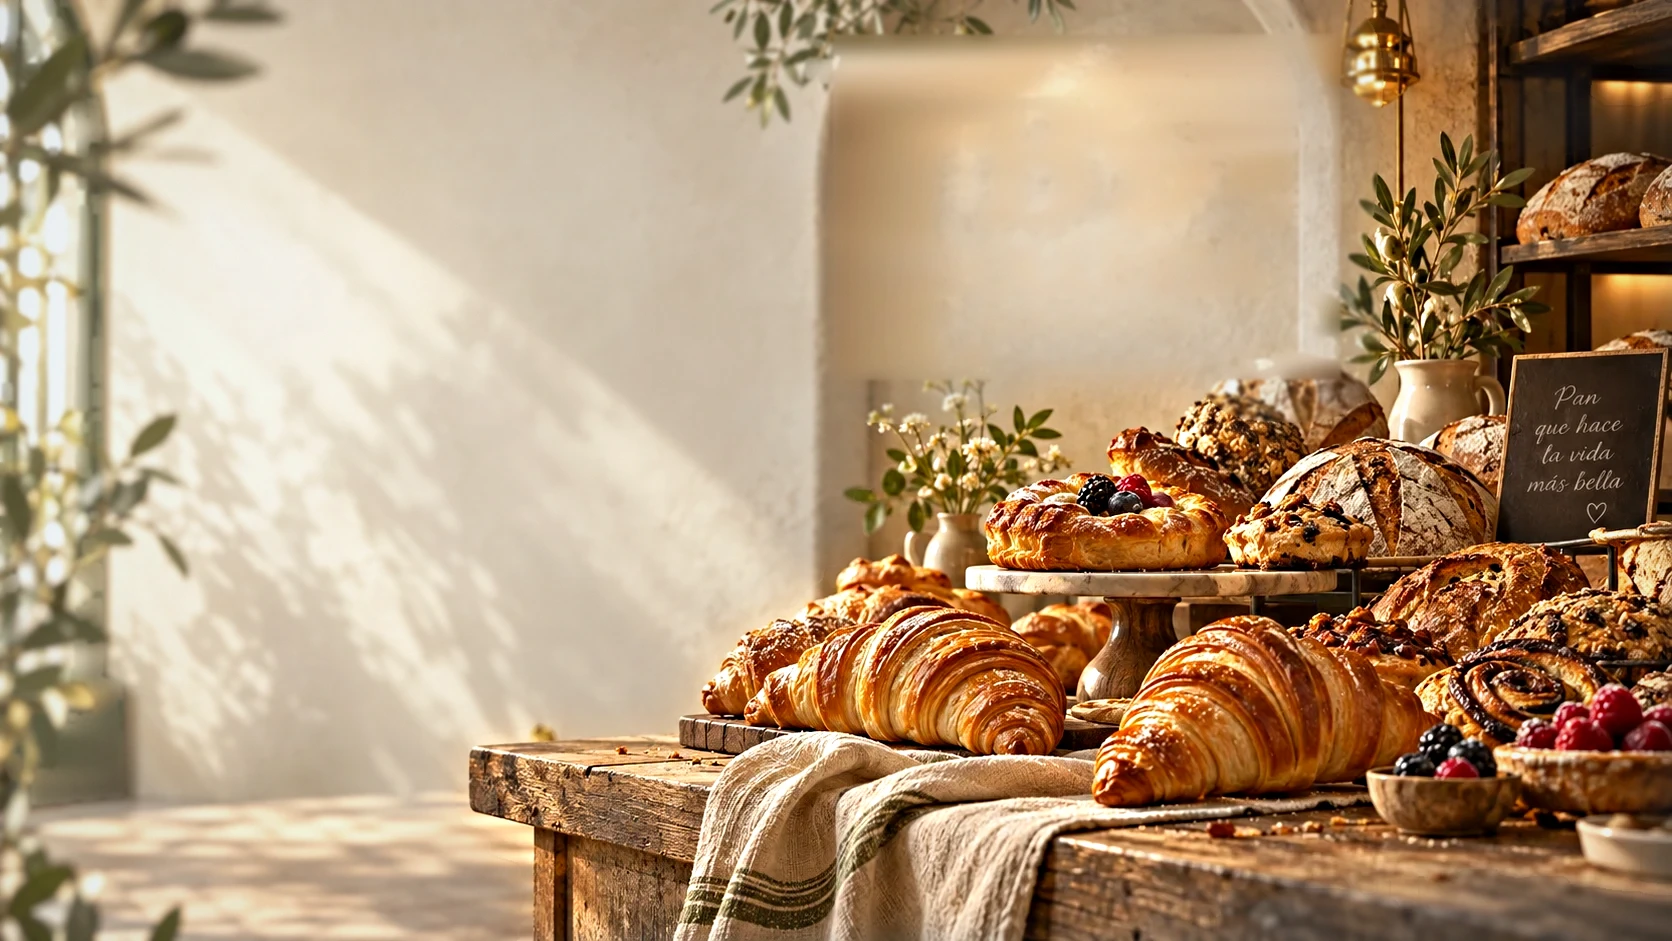
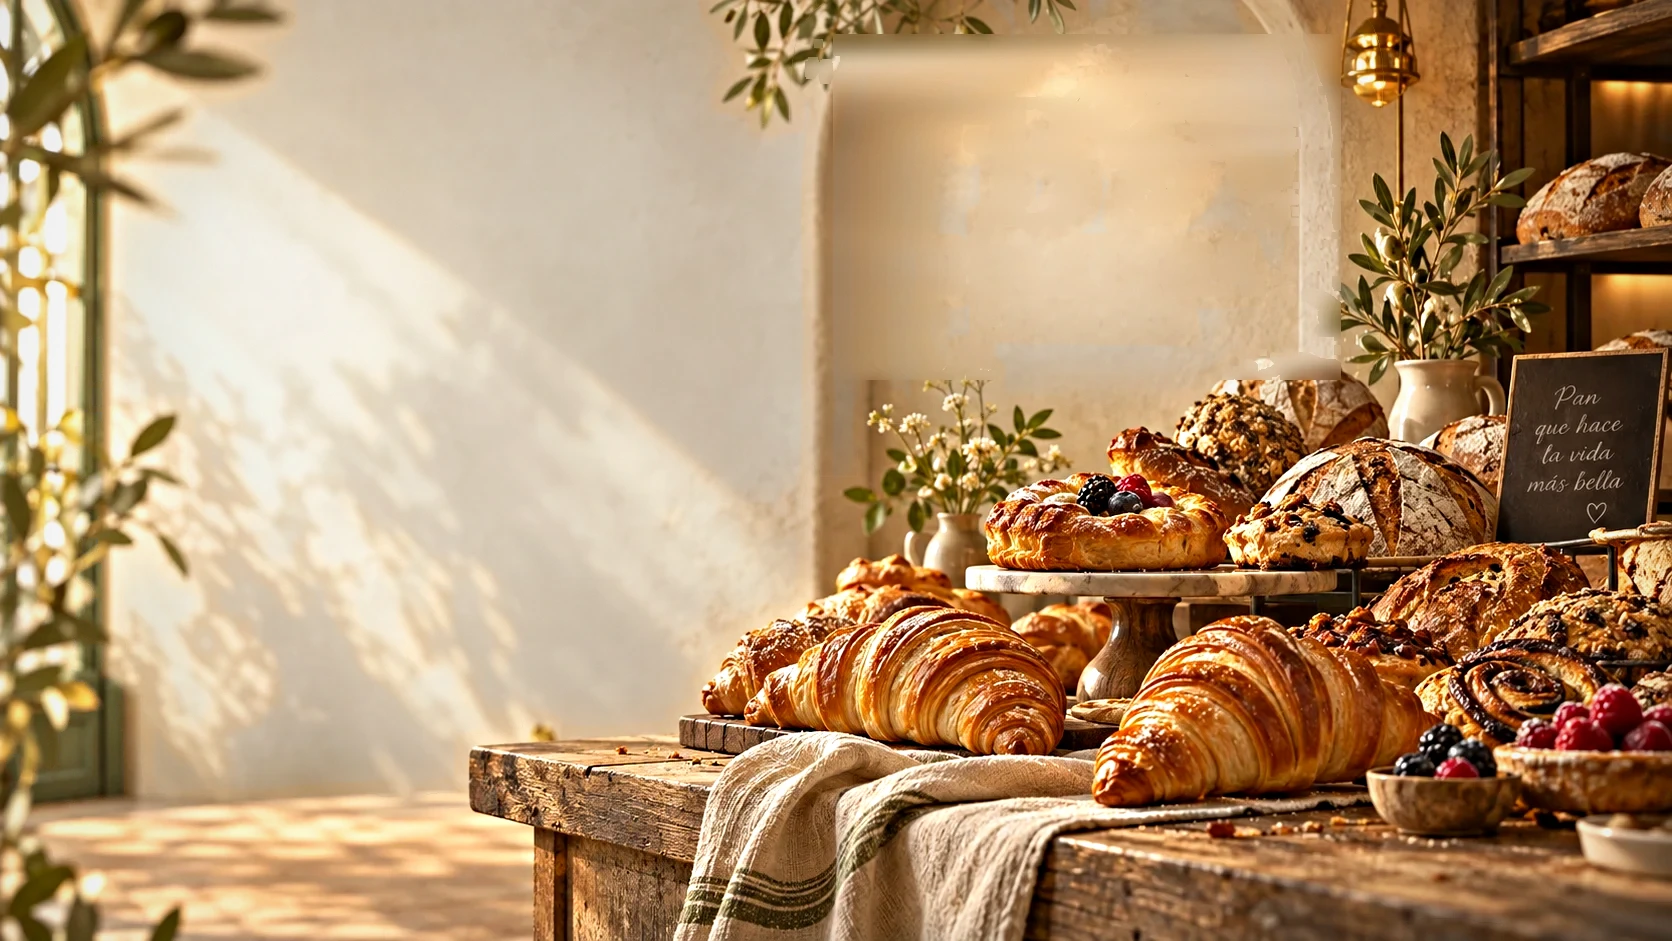
difuminado corregido del hero

diff --git a/libs/bolleria-v2/frontend/inicio/src/lib/hero-capas.component.ts b/libs/bolleria-v2/frontend/inicio/src/lib/hero-capas.component.ts
@@ -28,7 +28,15 @@ import { BolleriaStore, waDirectLink } from '@bolleria-v2-ui-shared';
  * sobre el muro y deja halo-; con el fondo aislado, el borde del pan queda
  * nítido contra un fondo suave, que es lo que hace un objetivo real. Lo mismo
  * con el color: lo lejano pierde saturación y se enfría, lo cercano gana cuerpo.
- * Medido, la separación entre el pan y el muro pasa de 2,92x a 5,21x.
+ * Medido, la separación entre el pan y el muro pasa de 2,76x a 4,92x en color y
+ * de 3,86x a 4,85x en detalle.
+ *
+ * El desenfoque del fondo no se decide sólo por la máscara del bodegón: se
+ * multiplica además por lo poco nítido que ya está cada píxel. Un píxel con
+ * detalle propio no se desenfoca nunca, así que el borde de la máscara no puede
+ * partir un objeto en dos nitideces. Sin ese candado la máscara dejaba fuera el
+ * ramo de flores por la mitad, la balda de panes y la pizarra, y se veían
+ * desiguales.
  *
  * Se probó también mover las capas con el ratón, con un modelo de cámara real.
  * Funcionaba -el fondo clavado, el primer plano abriéndose- pero se descartó: la
